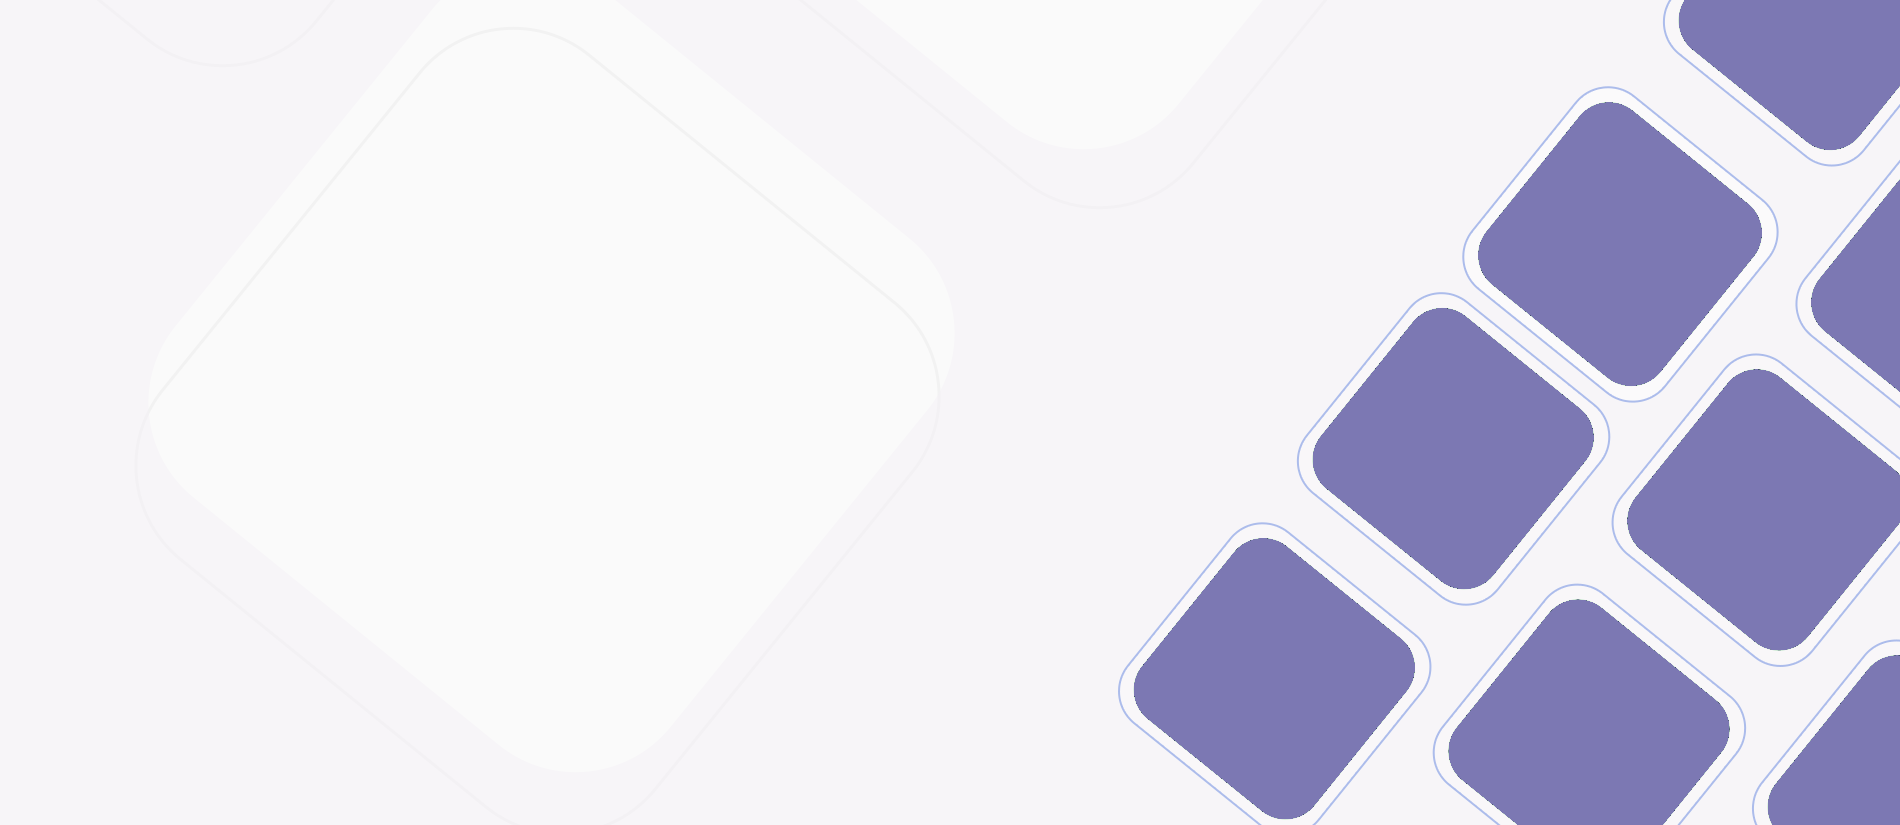
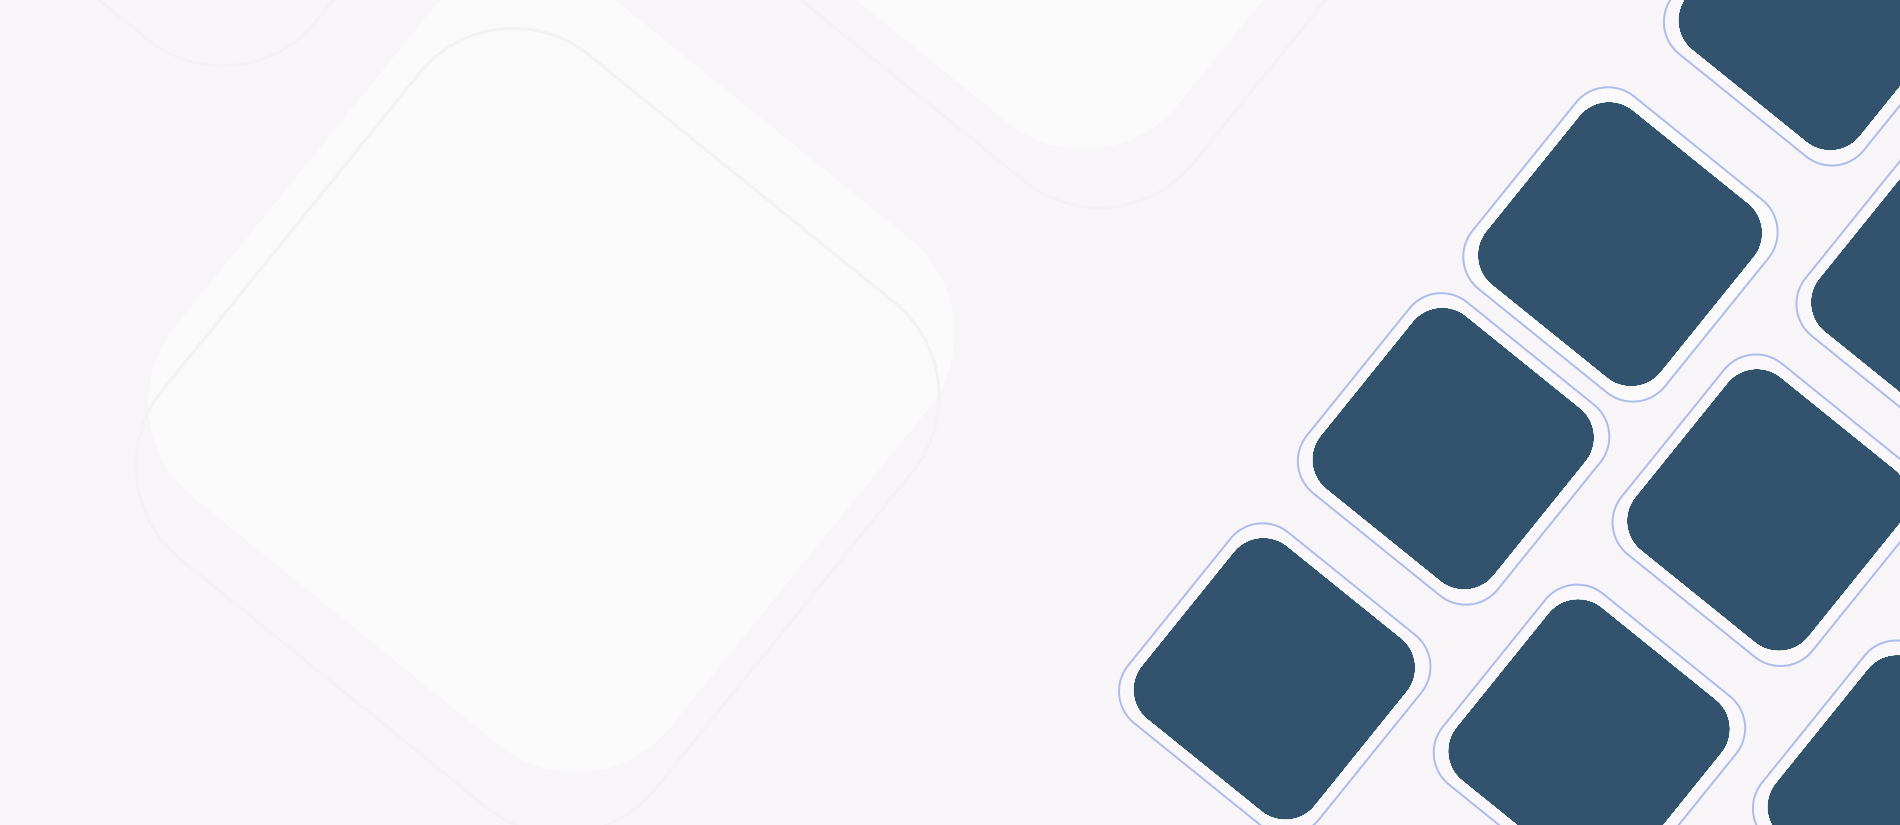
Change colors not found

Changed region(s): [[0.6832, 0.1212, 1.0, 0.7879], [0.59, 0.6364, 1.0, 1.0], [0.8695, 0.0, 1.0, 0.1818]]

diff --git a/client/src/views/NotFound.css b/client/src/views/NotFound.css
@@ -9,7 +9,7 @@
 }
 
 #errorNumber {
-  color: #7C78B3;
+  color: #33526D;
   font-size: 10rem;
   overflow: hidden;
   white-space: nowrap;
@@ -22,5 +22,5 @@
 }
 
 #volver-inicio{
-  border-color: #7C78B3;
+  border-color: #33526D;
 }
